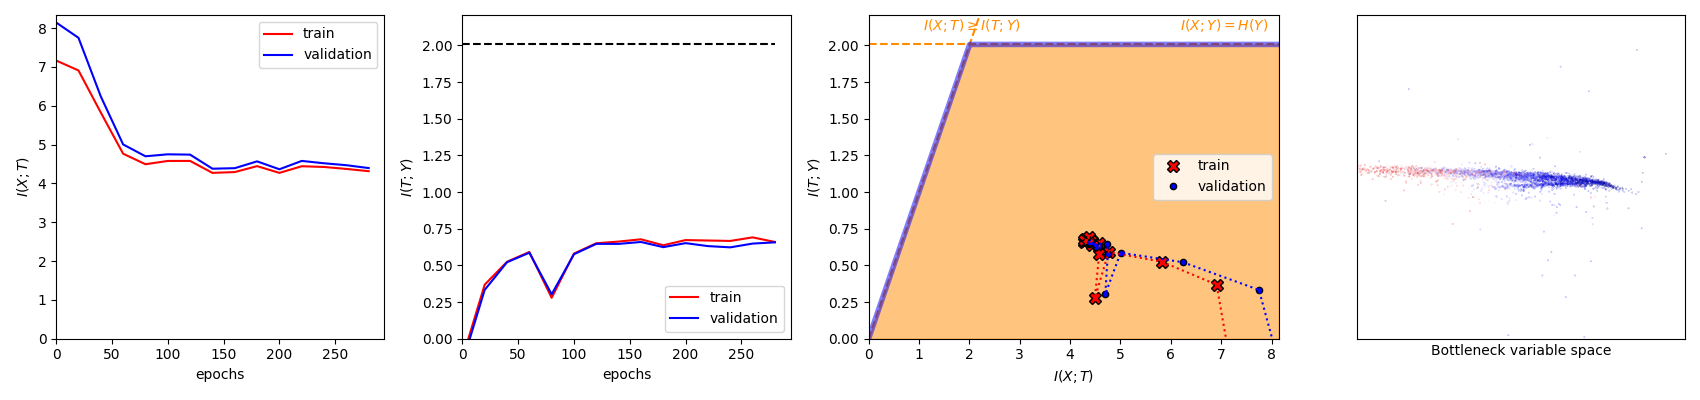
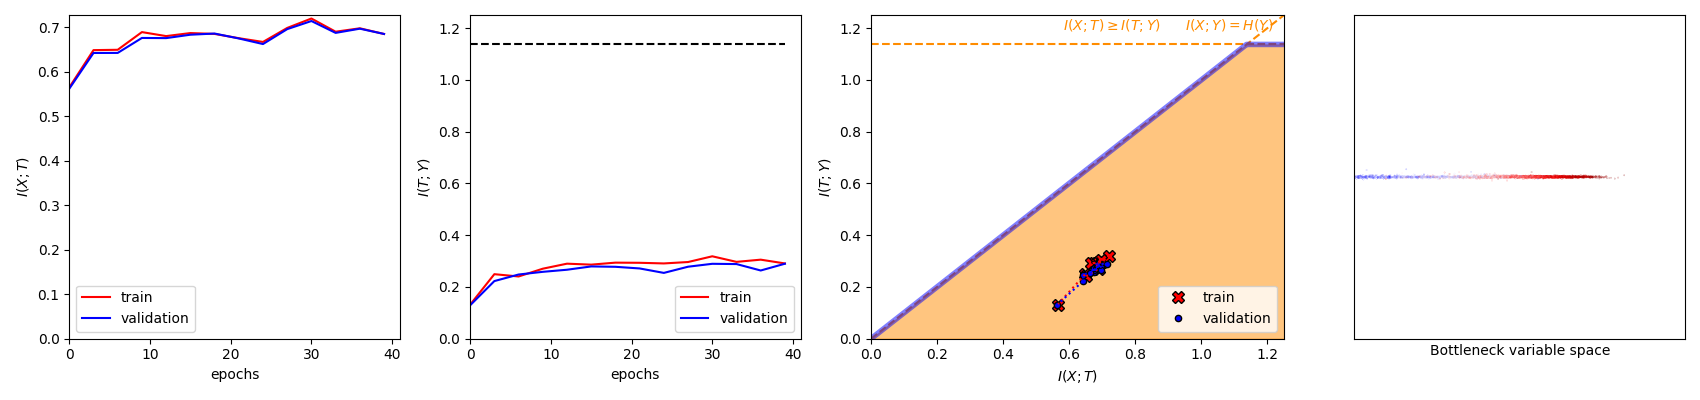
added preprocessing to California Housing dataset

diff --git a/src/utils.py b/src/utils.py
@@ -6,6 +6,7 @@ import argparse
 import PIL.Image
 import sklearn.datasets
 import random
+import numpy as np
 
 def weight_init(m):
     '''
@@ -110,13 +111,14 @@ def get_california_housing(percentage_validation=0.2,percentage_test=0.2):
     
     # We remove the houses with prices higher than 500,000 dollars
     idx_drop = Y >= 5
-    X, Y = X[~idx_drop], Y[~idx_drop]
+    X, Y = X[~idx_drop], np.log(Y[~idx_drop])
 
     # We shuffle the inputs and outputs before assigning train/val/test 
     tmp = list(zip(X,Y))
     random.shuffle(tmp)
     X, Y = zip(*tmp)
     X, Y = torch.FloatTensor(X), torch.FloatTensor(Y)
+    X = (X - torch.mean(X,0)) / torch.std(X,0)
 
     # Split between training / validation / testing
     splitpoint_test = int(len(Y) * (1.0 - percentage_test))
@@ -130,7 +132,6 @@ def get_california_housing(percentage_validation=0.2,percentage_test=0.2):
     validationset = DatasetRegression(X_validation,Y_validation)
     testset = DatasetRegression(X_test,Y_test)
     return trainset,validationset, testset
-
 
 def get_data(dataset='mnist',percentage_validation=0.2):
     '''

diff --git a/src/nonlinearIB.py b/src/nonlinearIB.py
@@ -67,7 +67,7 @@ class NonlinearIB(torch.nn.Module):
         else:
             MSE = self.mse(logits_y,y)
             ITY = 0.5 * torch.log(self.varY / MSE) / np.log(2) # in bits
-            return ITY, (self.HY - (0.5*(math.log(2*math.pi) + MSE))) / np.log(2)
+            return ITY , self.HY - MSE
         
     
     def get_loss(self,IXT_upper,ITY_lower):

diff --git a/src/network.py b/src/network.py
@@ -83,6 +83,9 @@ class nlIB_network(torch.nn.Module):
         else:
             t = mean_t
         return t
+    
+    def apply_noise(self,mean_t):
+        return mean_t + torch.exp(0.5*self.logvar_t) * torch.randn_like(mean_t)
 
     def decode(self,t):
 

diff --git a/README.md b/README.md
@@ -36,6 +36,10 @@ This repository contains the updated implementation from 2019. To see the origin
 
 ![](./examples/housing_exp_0,3_beta_0,05_image.png)
 
+#### Behavior of the Exponential IB Lagrangian with parameter 1.
+
+![](./examples/housing_exp_1_behavior_image.png)
+
 
 ## Requirements
 
